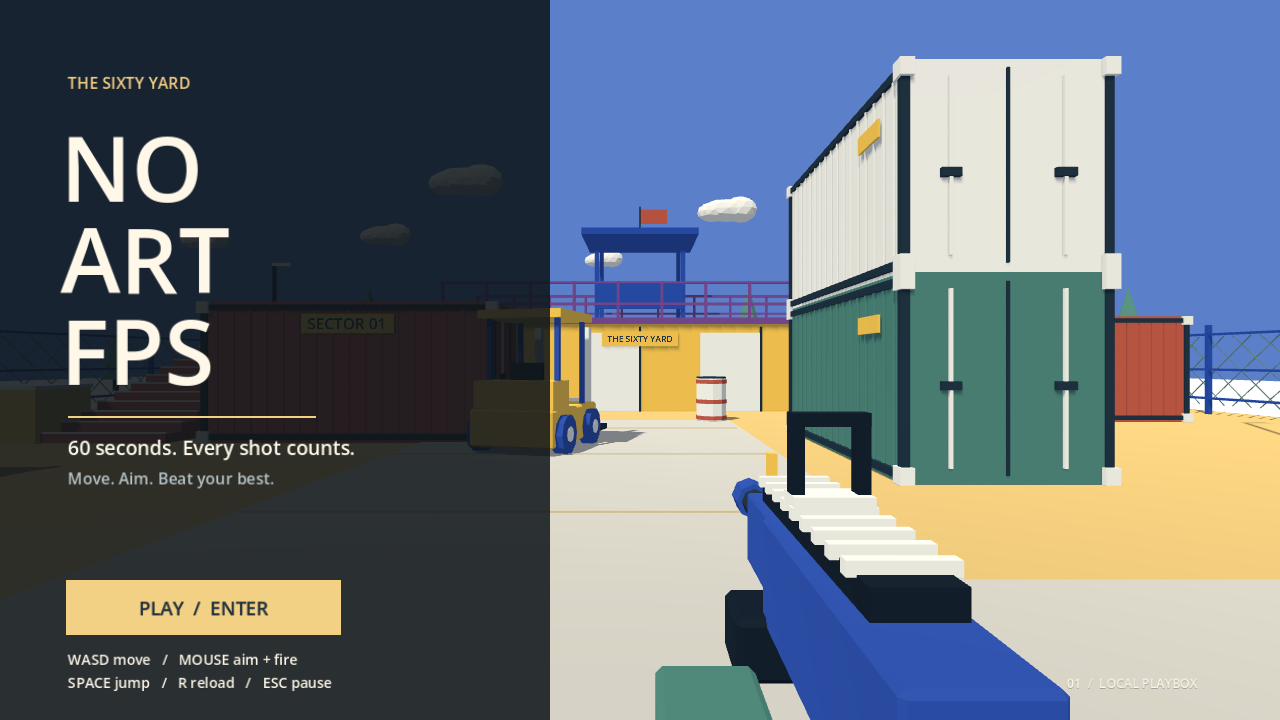
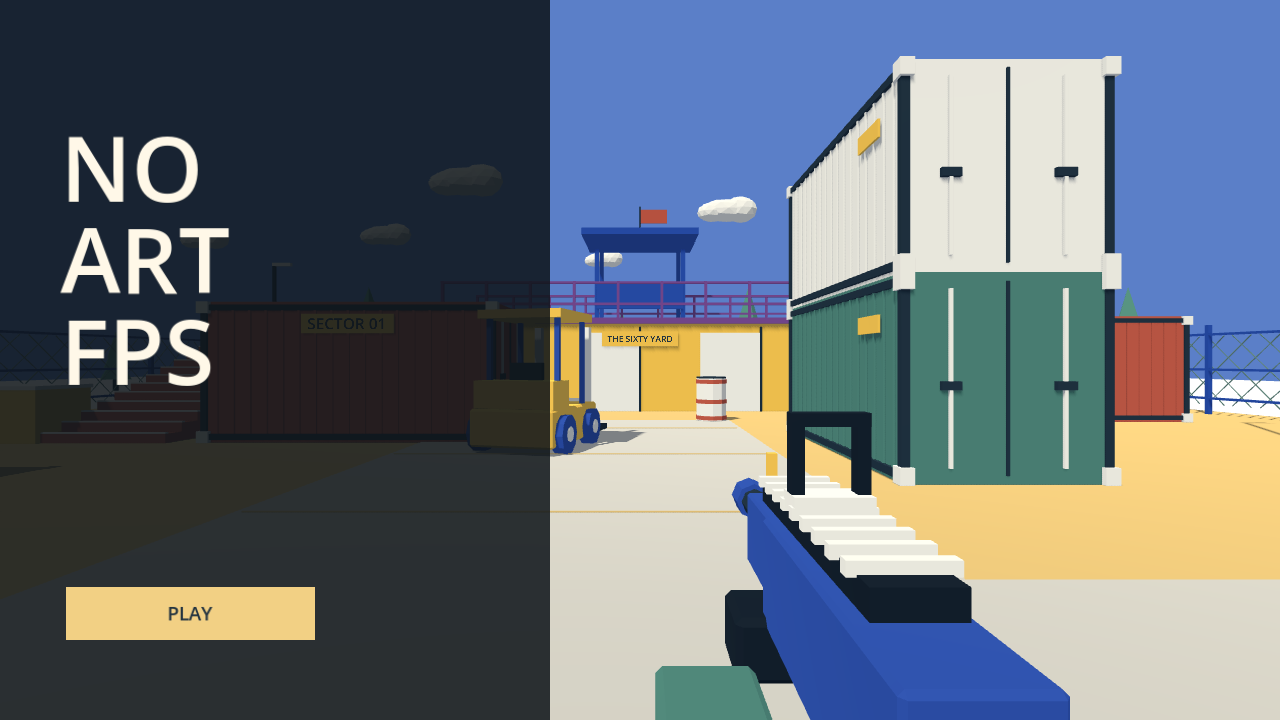
ui: simplify title, pause and results menus with direct controls

Changed region(s): [[0.0312, 0.7944, 0.2812, 0.9778], [0.0312, 0.6111, 0.2812, 0.6722], [0.0625, 0.0917, 0.1562, 0.1222]]

diff --git a/docs/implementation.md b/docs/implementation.md
@@ -51,3 +51,11 @@ This is not a ten-minute soak, a human balance test, or Windows/Web/controller v
 - Test entry points and play controls are documented in the project README.
 
 The original design document remains a proposal/history record. Current behavior and validation are described here and in the README.
+
+## Menu cleanup — 2026-11-05
+
+The project instructions now require: “Avoid unnecessary secondary labels and descriptions. Let the layout do the explaining.”
+
+Title retains the name and Play button. Pause uses Resume/Restart buttons and two directly operable settings. Results retain kills, best and Retry/Menu. Promotional copy, duplicated key legends, prototype identifiers, headshot summary and the countdown slogan have been removed. Shortcut hints live in button tooltips; existing keyboard shortcuts remain functional.
+
+Godot import passed. A temporary engine-side GUI check sent viewport mouse events through the real button hitboxes and verified Play, Resume, Retry, Menu, motion switching and sensitivity changes. Title, preparation, pause and results were rendered; title/pause were also inspected at a 960×540 window size. Screenshots are in `artifacts/menus/`. No combat rules changed.

diff --git a/README.md b/README.md
@@ -23,7 +23,8 @@ Alternatively, import `project.godot` in Godot 4.7.2 and press F6/F5 as appropri
 - R: reload. Empty magazines reload automatically; reserve ammunition is unlimited.
 - Escape: pause / resume. Losing focus also pauses.
 - Enter on results or pause: retry. Escape on results: title.
-- In pause: `-` / `+` adjust mouse sensitivity; M reduces camera motion.
+- Pause menu: use Resume/Restart, the sensitivity slider, and the camera-motion toggle. `-` / `+` and M remain available as shortcuts.
+- Results: Retry and Menu are clickable; Enter and Escape still work.
 
 Head hits kill a normal target in one shot; body hits take three. Every kill is worth one. Three armor hits cause a one-second respawn while the round clock keeps running. Armor regenerates after avoiding damage. The local best and settings are stored in Godot's `user://record.cfg`; QA runs do not overwrite them.
 
